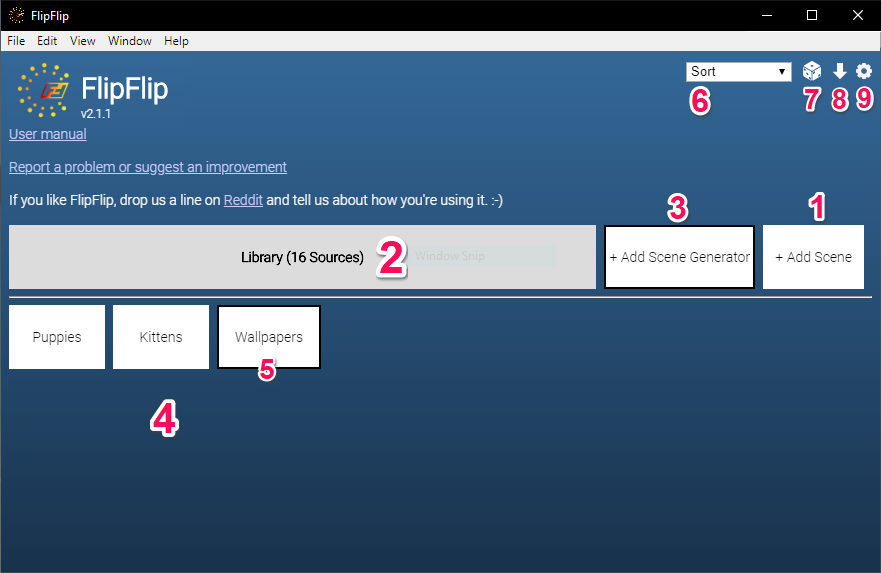
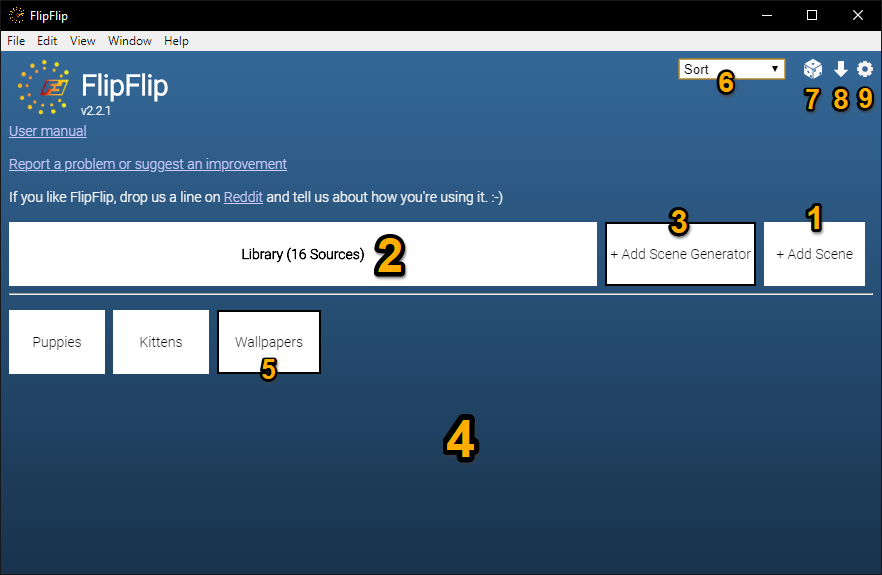
Prepare for v2.2.1 release

diff --git a/docs/effects.md b/docs/effects.md
@@ -3,9 +3,12 @@ FlipFlip gives users some pretty finite control over various playback effects.
 
 ## Scene effects
 This section controls how the scene will play out.
-* Choose either a constant value (ms) or one of the "variable" options that transition between fast and slow speeds over time.
-* Choose a scene to overlay over this one (or none). Control overlay opacity.
+* Choose to display images at a constant rate (ms), randomly, or in a wave.
+  * For randomly and wave, choose min and max (ms) of time range.
+  * For wave, choose wave rate. _95-100 is generally recommended_
 * Choose a scene to transition to after this one (or none). Control timing of next scene (sec).
+* Add scene(s) to overlay over this one (or none). Control overlay opacity.
+  * There is no limit to the number of overlays, but you may experience poor performance if you use too many.
 
 _The "Next Scene" will pre-load in the background and start after the configured time has passed. Effects, audio, 
 text, etc. will also change as configured_
@@ -59,9 +62,20 @@ This section controls which images are displayed and in what order.
 * Choose to show all images before looping.
 
 ## Audio
-This section controls the scene's audio component.
-* Choose a web-compatible audio file. It will be looped while the slideshow is playing.
-  * If you pause and unpause, the file will be resumed from where you left off.
+This section controls the scene's audio component. It also contains the audio controls while playing.
+"Tick" means the audio file will play/restart at a certain interval.
+* Add audio files to loop or "tick".
+* For "Tick", choose to play the audio track at a constant rate (ms), randomly, or in a wave.
+  * For randomly and wave, choose min and max (ms) of time range.
+  * For wave, choose wave rate. _95-100 is generally recommended_
+* Control the volume of each track.
+  
+## Video Controls
+This section controls video settings. While playing, this section contains the video playback controls and appears 
+at the top. This includes controls for any overlay videos.
+* Choose to start videos at a random timestamp (start from beginning by default)
+* Choose to continue videos from last timestamp during this slideshow
+* Control video volume for this scene
 
 ## Text
 This section controls the caption program.

diff --git a/docs/import_export.md b/docs/import_export.md
@@ -10,6 +10,8 @@ left. Save the file and share where you'd like.
 This file is just a long line of text which holds the data about your Scene's configuration. You could also just 
 post this text online for someone to import with (you don't have to share the file directly).
 
+Any overlays will also be exported with this scene. However, those overlays' overlays will not.
+
 ?> NOTE: _Due to the nature of FlipFlip scenes, we don't recommend you try and import/export Scenes with local 
 directories. This will technically work, but the import/exporter would have to have the same file paths (or will 
 have to modify them manually). In addition, any exported Generators will be imported as regular Scenes._
@@ -20,6 +22,8 @@ alt="Import" width="20" height="20"> ) on the Home page. You will be prompted to
 
 If you have a `.json` export file, simply select it and your Scene will import. If you got a line of text from 
 someone, paste it into a file and save it. Then pick that file during the import.
+
+The imported Scene (and any overlays) will be created and you will be brought to the Scene.
 
 ## Library Export
 To export your Library, click the `Export` button ( <img style="vertical-align: -5px" src="doc_icons/export.svg" 

diff --git a/docs/playing_scene.md b/docs/playing_scene.md
@@ -15,7 +15,7 @@ click `Start Now` when it appears. You can also configure all scenes to start im
 
 ## Playback controls
 All scene options (except the image filter) can also be changed while playing a slideshow by hovering over the sidebar 
-on the left.
+on the left. This is also where you will find video/audio playback controls.
 
 ![](doc_images/player_options.png)
 
@@ -29,6 +29,9 @@ given options to view it in Explorer/Finder or delete it from the system (handy 
 FlipFlip). 
 
 If it is for a remote file and you have enabled caching, a link to the caching directory is also provided.
+
+If this source is in your Library, "GoTo Tag Source" will bring you to Taggin for that source. 
+When you click "Back" you will be brought back to the scene that was playing.
 
 ![](doc_images/image_context_menu.png)
 
@@ -46,5 +49,6 @@ These controls are also available in the bar at the top.
 | Del                   | Delete Image         |
 | **⌘+F** / **Ctrl+F** | Toggle Fullscreen    |
 | **⌘+T** / **Ctrl+T** | Toggle Always On Top |
-| **⌘+^** / **Ctrl+^** | Toggle Menu Bar      |
+| **⌘+G** / **Ctrl+G** | Toggle Menu Bar      |
+| [ ]                   | Navigate Tagging     |
 

diff --git a/docs/changelog.md b/docs/changelog.md
@@ -1,5 +1,28 @@
 # Changelog
 
+## 2.2.1  <small>(07/08/2019)</small>
+- Audio/Video controls
+- Sound in videos
+- Support for WebM and OGG
+- Use multiple overlay layers
+- Use multiple audio layers
+- Ability to tick audio at set/random intervals
+- Finer control over image timing
+- Add context option to go to source tagging
+- Use [ and ] to navigate between sources while tagging
+- Add option for no background
+- Add strobe layer between image and background
+- Add option to play full video
+- Add option to start at random spot in video
+- Add option to continue videos from last timestamp
+- Add Marked filter
+- Export/Import scenes with overlay(s)
+- Fix hover for marked/offline in Library
+- Fix bug hiding Timing while tagging
+- Fix bug with "Next Scene"
+- Fix bug with zoom config 
+- Fix typo in Tumblr alert
+
 ## 2.2.0  <small>(06/24/2019)</small>
 - UI Improvements
 - Allow player to play video files (.mp4/.mkv)

diff --git a/docs/search.md b/docs/search.md
@@ -2,9 +2,10 @@
 Use the search bar to help find or filter the displayed sources. Tags appear with a number indicating how many of the 
 displayed sources have that tag.
 
-* Click on the search bar and select a tag, `<Offline>`, or `<Untagged>`.
+* Click on the search bar and select a tag, `<Offline>`, `<Marked>`, or `<Untagged>`.
   * Start typing to find a particular tag.
   * `<Offline>` shows only sources that have been determined to be offline by [Mark Offline](mark_offline.md).
+  * `<Marked>` shows only sources that have been [marked](library.md#marking-sources).
   * `<Untagged>` shows only sources which have no tags.
 * Type any term and press "Enter" or "Search for ___" to search. This is not case sensitive.
 * Type "-" and then any term or filter to _exclude_ those sources.

diff --git a/docs/quickstart.md b/docs/quickstart.md
@@ -37,8 +37,8 @@ Let's create a simple scene to get you familiar with how things will work
 ## Your first slideshow
 Great! Now your sources have loaded and the slideshow has started!
 
-All scene options (except the image filter) can also be changed while playing a slideshow by hovering 
-over the sidebar on the left.
+Video/Audio controls and all scene options (except the image filter) can also be accessed by hovering 
+over the sidebar on the left while the slideshow is playing.
                                                       
 ![](doc_images/player_options.png) 
 

diff --git a/docs/tagging.md b/docs/tagging.md
@@ -21,6 +21,8 @@ To tag a source in the Library, click the name of the source. This will start a 
 To modify the tags, hover towards the bottom of the screen and you will see your tags appear. Toggle tags on/off as 
 desired by clicking on them. When you're done, click "Back" to return to the Library.
 
+While Tagging, use `[` and `]` to jump to Tagging the previous/next visible source in the Library. 
+
 ![](doc_images/tagging.png)
 
 ## Batch Tagging
